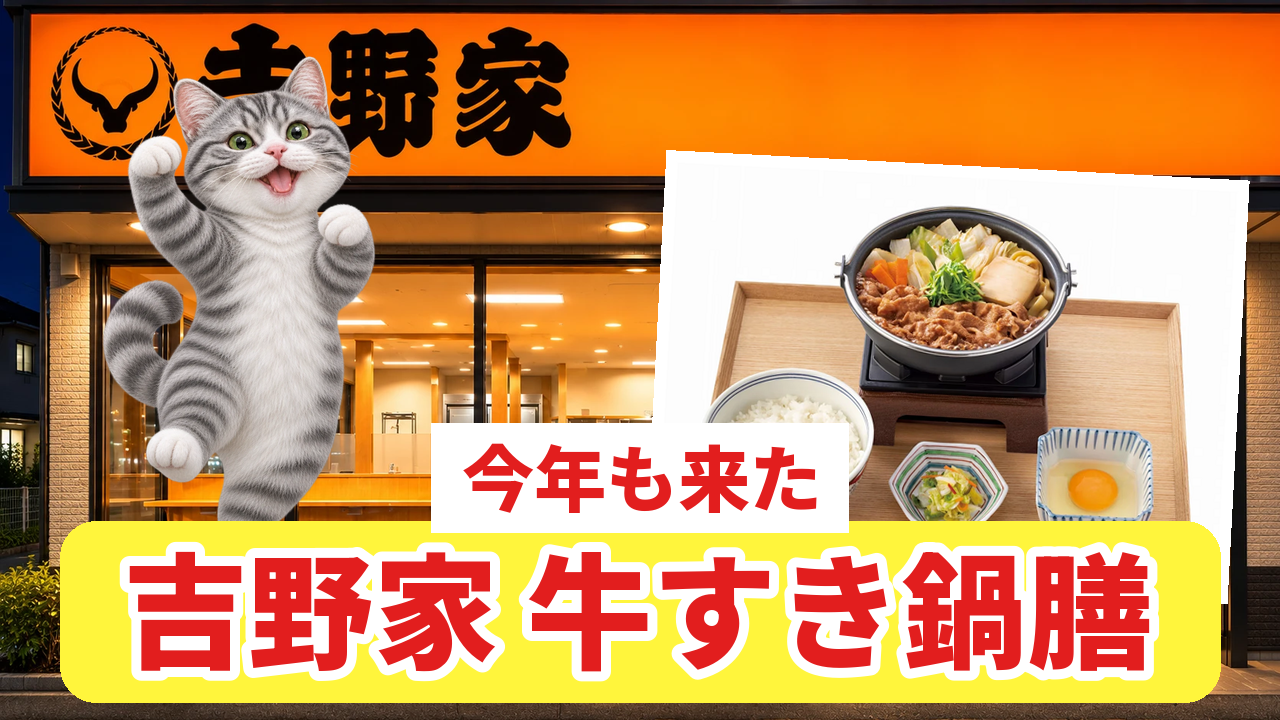
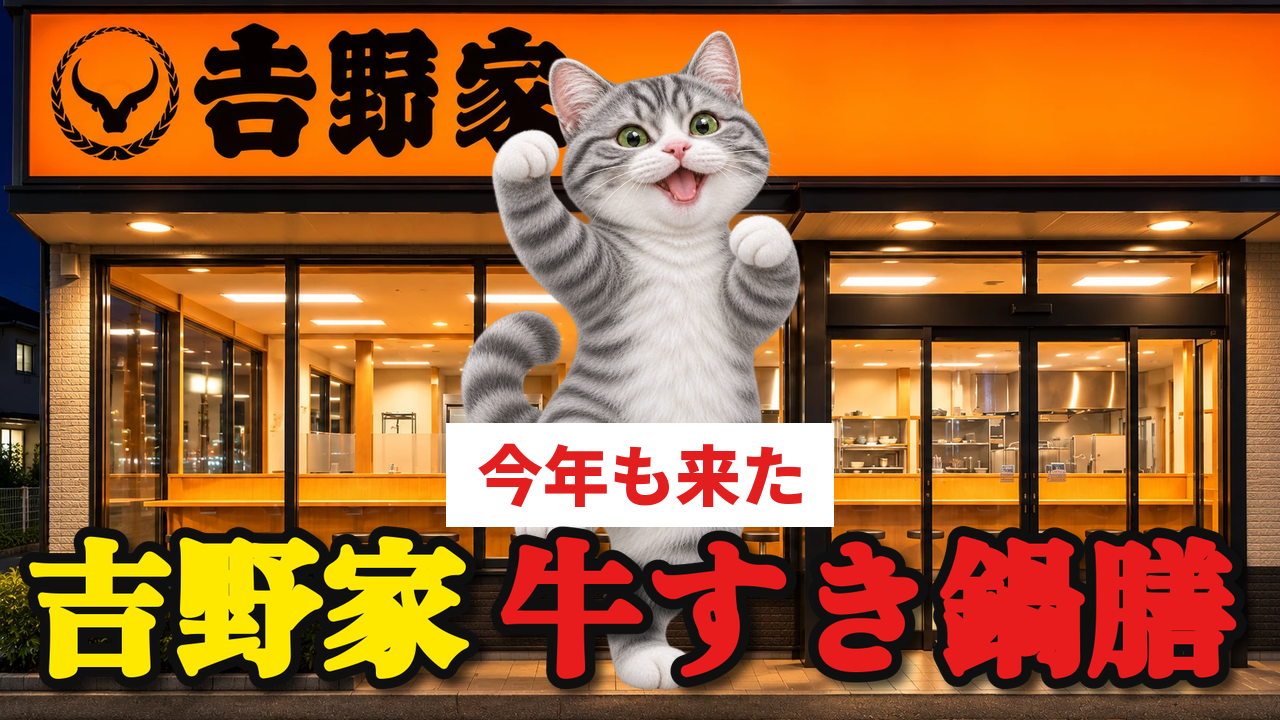
自堕落#23 吉野家：サムネ（1人焼肉と同じ構図）
Claude-Session: https://claude.ai/code/session_011g9CsrfFD5YswfNSvNDW39

diff --git a/catmeme/make_thumb_yoshinoya.py b/catmeme/make_thumb_yoshinoya.py
@@ -67,3 +67,42 @@ def final():
     box.alpha_composite(t, (30, 18))
     img.alpha_composite(box, ((T.W - box.width) // 2, by - box.height + 12))
     T.save(img, "jidaraku_23_yoshinoya_thumb_final.png")
+
+
+def final2():
+    """11/18 ユーザー指定：「20代ぼっち女 1人焼肉に行く」と同じ構図。店構えを全面・猫を真ん中に大きく・
+    白い札「今年も来た」・極太明朝の大きな文字「吉野家（黄）牛すき鍋膳（赤）」（黒い太いふち＋影）。帯なし。"""
+    from PIL import ImageFilter, ImageFont
+    img = T.fill_photo("yo03_front_wide", T.W, T.H, cy=0.4)
+    cat = Image.open(os.path.join(T.HERE, "backgrounds", "jidaraku", "23_yoshinoya", "t_cat_dance.png")).convert("RGBA")
+    k = 700 / cat.height
+    cat = cat.resize((int(cat.width * k), 700), Image.LANCZOS)
+    img.alpha_composite(cat, ((T.W - cat.width) // 2, 10))
+    f = ImageFont.truetype(os.path.join(T.HERE, "fonts", "ZenOldMincho-Black.ttf"), 200)
+    parts = [("吉野家", (255, 232, 0)), ("牛すき鍋膳", (232, 28, 28))]
+    d0 = ImageDraw.Draw(Image.new("RGBA", (8, 8)))
+    ws = [d0.textlength(t, font=f) + (40 if i == 0 else 0) for i, (t, _) in enumerate(parts)]
+    layer = Image.new("RGBA", (int(sum(ws)) + 80, 300), (0, 0, 0, 0))
+    d = ImageDraw.Draw(layer)
+    x = 40
+    for (t, col), w in zip(parts, ws):
+        d.text((x, 20), t, font=f, fill=(15, 15, 15), stroke_width=20, stroke_fill=(15, 15, 15))
+        d.text((x, 20), t, font=f, fill=col, stroke_width=6, stroke_fill=col)
+        x += w
+    sh = Image.new("RGBA", layer.size, (0, 0, 0, 0))
+    sh.paste((0, 0, 0, 170), (0, 0), layer.split()[3])
+    sh = sh.filter(ImageFilter.GaussianBlur(6))
+    out = Image.new("RGBA", (layer.width + 10, layer.height + 10), (0, 0, 0, 0))
+    out.alpha_composite(sh, (10, 10))
+    out.alpha_composite(layer, (0, 0))
+    out = out.crop(out.getbbox())
+    if out.width > T.W - 30:
+        k = (T.W - 30) / out.width
+        out = out.resize((int(out.width * k), int(out.height * k)), Image.LANCZOS)
+    by = T.H - out.height - 14
+    t = T.runs([("今年も来た", (T.RED, T.WHITE))], 66, 2, 900)
+    box = Image.new("RGBA", (t.width + 60, t.height + 36), T.WHITE + (255,))
+    box.alpha_composite(t, (30, 18))
+    img.alpha_composite(box, ((T.W - box.width) // 2, by - box.height + 4))
+    img.alpha_composite(out, ((T.W - out.width) // 2, by))
+    T.save(img, "jidaraku_23_yoshinoya_thumb_final.png")
